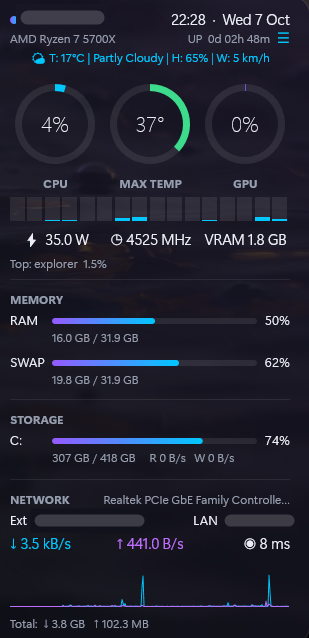
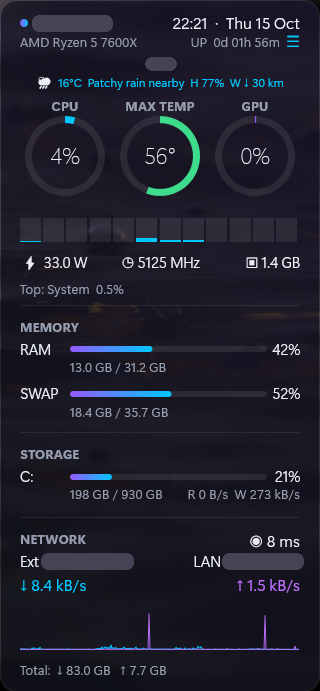
README: update screenshot (IPs, location and hostname hidden)

diff --git a/README.md b/README.md
@@ -18,7 +18,7 @@ CPU · GPU · temperature · power · RAM · network · weather, all in one clea
 ## Preview
 
 <p align="center">
-  <img src="docs/screenshot.png" alt="Coreglow skin on the Windows 11 desktop" width="309">
+  <img src="docs/screenshot.png" alt="Coreglow skin on the Windows 11 desktop" width="320">
 </p>
 
 ## Features
